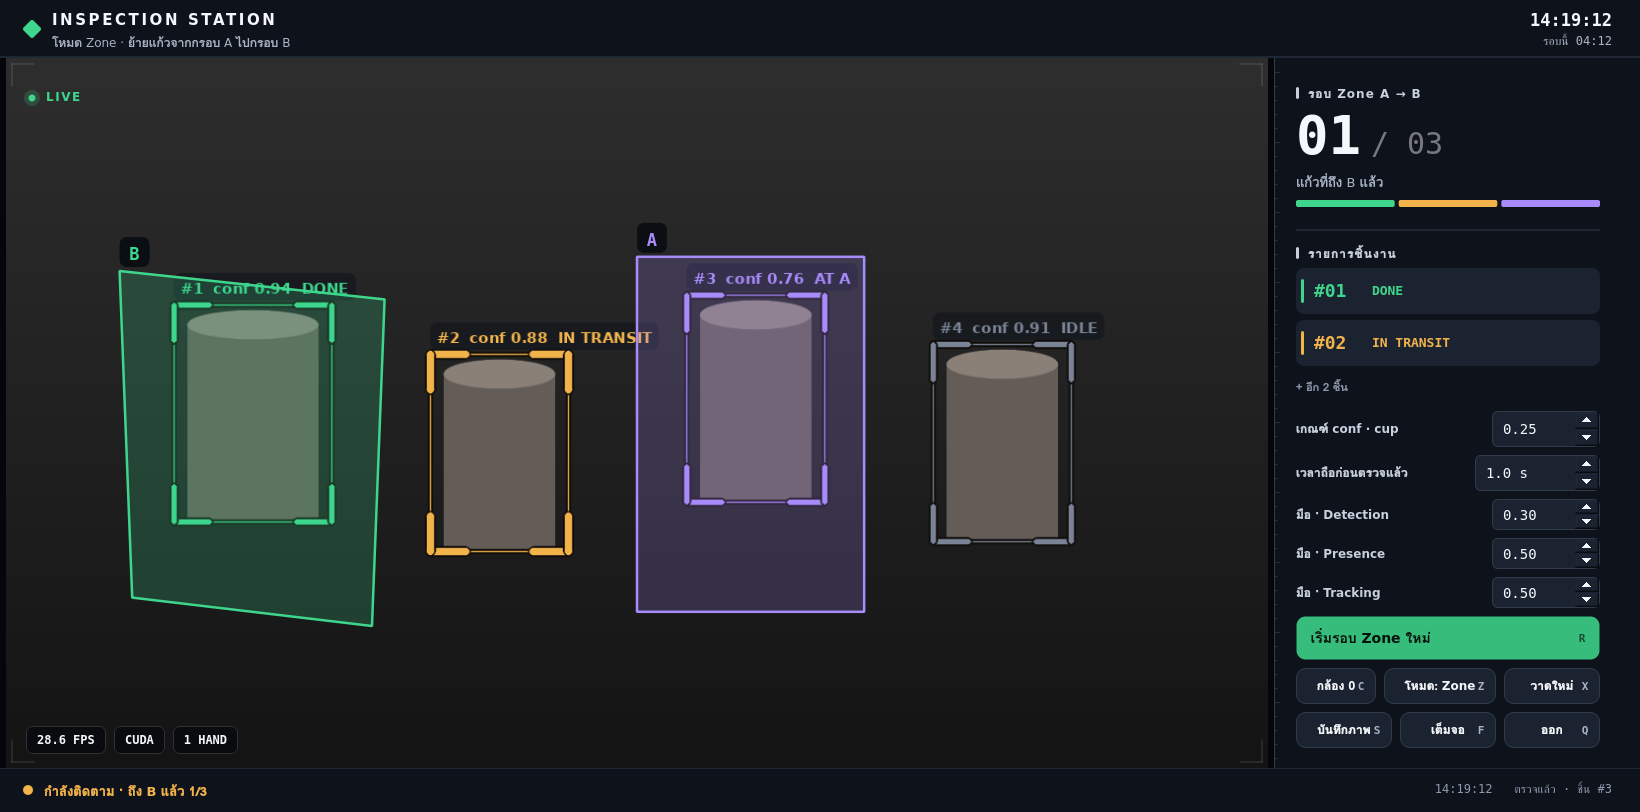
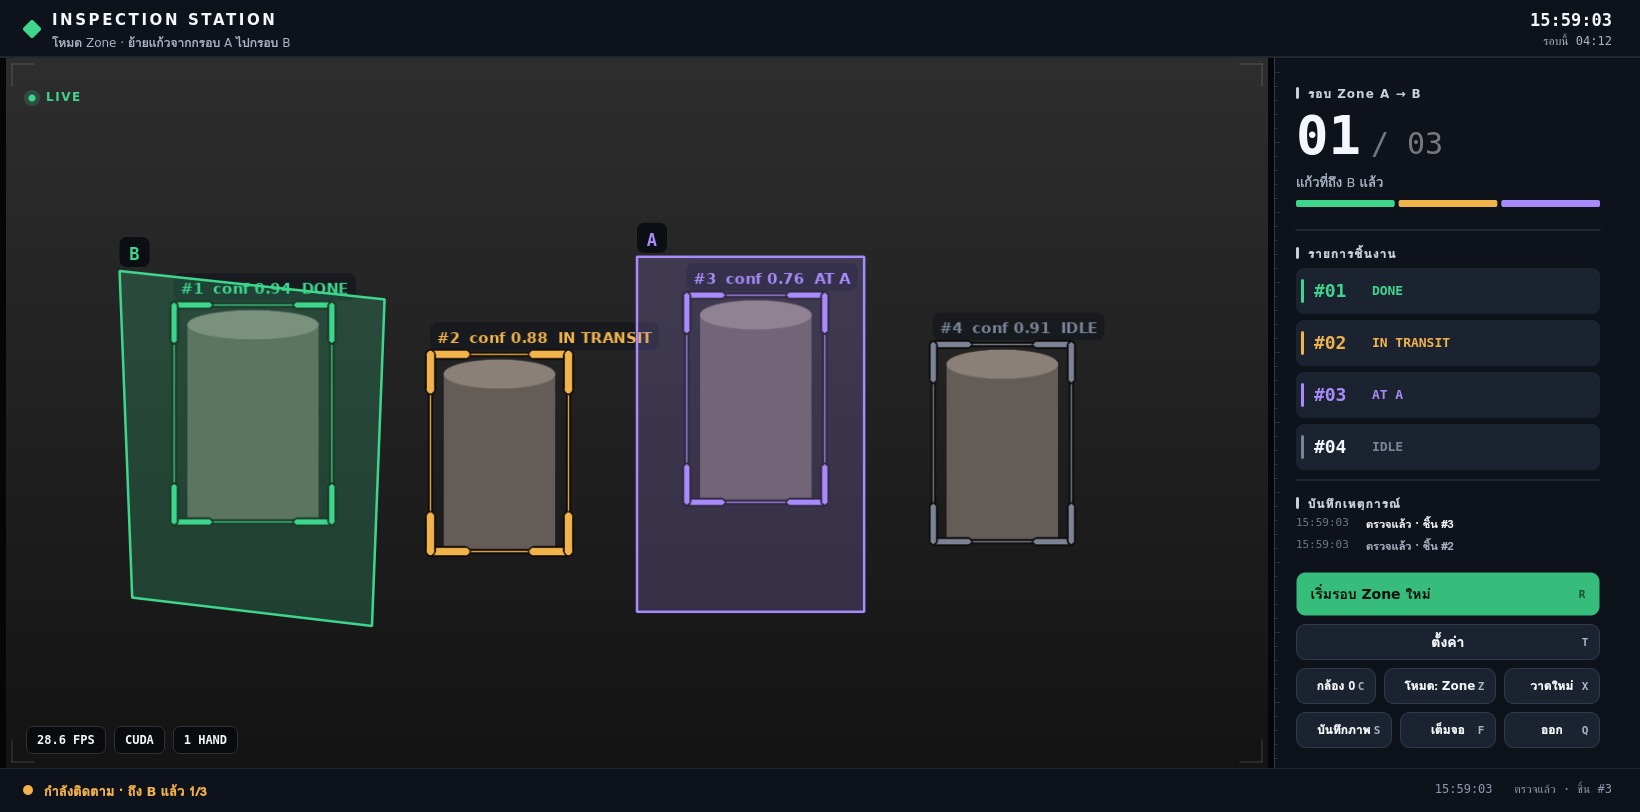
app: move the threshold controls into a settings window (T)
The cup confidence, hold time and three MediaPipe thresholds crowded the side
panel. They now live in a floating, non-blocking window opened by the
Settings button or the T key (Esc closes it). Same spin boxes and the same
setters, still not saved to config.yaml. The item list gets the room back:
Rack is 514 px high at the default window size (353 before).
ui_preview gains a 'settings' state; refresh the screenshots.

diff --git a/app/app.py b/app/app.py
@@ -24,7 +24,7 @@ try:
     from PySide6.QtCore import Qt, QPoint, QRectF, QTimer, QVariantAnimation, QPointF
     from PySide6.QtGui import (QColor, QFont, QFontMetrics, QImage, QPainter,
                                QPalette, QPen, QPixmap, QPolygonF)
-    from PySide6.QtWidgets import (QAbstractButton, QApplication, QDoubleSpinBox, QLabel, QHBoxLayout,
+    from PySide6.QtWidgets import (QAbstractButton, QApplication, QDialog, QDoubleSpinBox, QLabel, QHBoxLayout,
                                    QMenu, QScrollArea, QVBoxLayout, QWidget)
 except ImportError:
     raise SystemExit("\nไม่มี PySide6 — ติดตั้งก่อน:  pip install -r app/requirements.txt\n")
@@ -534,6 +534,19 @@ class Station(QWidget):
         keys = QVBoxLayout()
         keys.setContentsMargins(22, 0, 22, 20)
         keys.setSpacing(8)
+        # ค่า threshold ทั้งหมดอยู่ในหน้าต่างลอยแยก (ปุ่ม "ตั้งค่า" / คีย์ T) — แผงข้างจะได้ไม่รก
+        self.settings = QDialog(self)
+        self.settings.setWindowTitle("ตั้งค่า · threshold")
+        self.settings.setWindowFlag(Qt.WindowType.Tool)      # ลอยเหนือหน้าต่างหลัก ไม่ขึ้นแถบงาน · ไม่บล็อกหน้าหลัก
+        self.settings.setFixedWidth(380)
+        ground(self.settings, PANEL)
+        form = QVBoxLayout(self.settings)
+        form.setContentsMargins(22, 18, 22, 18)
+        form.setSpacing(10)
+        hint = QLabel("มีผลทันทีระหว่างรัน · ไม่บันทึกลง config.yaml")
+        hint.setFont(face(11))
+        hint.setStyleSheet(f"color: {FAINT}")
+        form.addWidget(hint)
         conf_row = QHBoxLayout()
         conf_label = QLabel("เกณฑ์ conf · cup")
         conf_label.setFont(face(12, QFont.Weight.DemiBold))
@@ -556,7 +569,7 @@ class Station(QWidget):
         conf_label.setBuddy(self.conf_input)
         conf_row.addWidget(conf_label, 1)
         conf_row.addWidget(self.conf_input)
-        keys.addLayout(conf_row)
+        form.addLayout(conf_row)
         duration_row = QHBoxLayout()
         duration_label = QLabel("เวลาถือก่อนตรวจแล้ว")
         duration_label.setFont(face(12, QFont.Weight.DemiBold))
@@ -577,7 +590,7 @@ class Station(QWidget):
         duration_label.setBuddy(self.duration_input)
         duration_row.addWidget(duration_label, 1)
         duration_row.addWidget(self.duration_input)
-        keys.addLayout(duration_row)
+        form.addLayout(duration_row)
         self.hand_conf_inputs = {}
         self.hand_conf_timer = QTimer(self)
         self.hand_conf_timer.setSingleShot(True)
@@ -607,9 +620,12 @@ class Station(QWidget):
             title.setBuddy(spin)
             row.addWidget(title, 1)
             row.addWidget(spin)
-            keys.addLayout(row)
+            form.addLayout(row)
             self.hand_conf_inputs[key] = spin
         keys.addWidget(self.new_round)
+        self.settings_btn = Button("ตั้งค่า", "T")
+        self.settings_btn.clicked.connect(self.toggle_settings)
+        keys.addWidget(self.settings_btn)
         cam_row = QHBoxLayout()                     # กล้อง · โหมด (· วาดใหม่ เฉพาะโหมด zone) อยู่แถวเดียว —
         cam_row.setSpacing(8)                       # แถวใหม่จะกิน 44px จากรายการชิ้นงาน (Rack) จนแถวหาย
         cam_row.addWidget(self.cam_btn, 5)
@@ -675,6 +691,16 @@ class Station(QWidget):
     def reset(self):
         self.an.reset()
         self.flash("เริ่มรอบ Zone ใหม่แล้ว" if self.mode == "zone" else "เริ่มรอบตรวจใหม่แล้ว")
+
+    def toggle_settings(self):
+        if self.settings.isVisible():
+            self.settings.hide()
+            return
+        self.settings.adjustSize()
+        # วางที่มุมขวาบนของพื้นที่ภาพ ติดแผงข้าง — ไม่บังเช็กลิสต์ และใกล้ปุ่มที่เพิ่งกด
+        corner = self.view.mapToGlobal(QPoint(self.view.width() - self.settings.width() - 12, 12))
+        self.settings.move(corner)
+        self.settings.show()
 
     # ── โหมด zone: สลับโหมด + วาดกรอบ A/B (จำเฉพาะ session นี้ ไม่บันทึกลงไฟล์) ──
     def toggle_mode(self):
@@ -786,6 +812,8 @@ class Station(QWidget):
                 self.view.pts = []
             else:
                 self.toggle_mode()
+        elif k == Qt.Key.Key_T:
+            self.toggle_settings()
         elif k == Qt.Key.Key_Z:
             self.toggle_mode()
         elif k == Qt.Key.Key_X and self.mode == "zone":

diff --git a/tools/ui_preview.py b/tools/ui_preview.py
@@ -6,6 +6,7 @@
     python tools/ui_preview.py                    # ฉากปกติ -> docs/app-ui.png
     python tools/ui_preview.py empty out.png      # สถานะอื่น: empty · done · many · lost
     python tools/ui_preview.py zone out.png       # โหมด zone A → B (ครบสี่สถานะ) · draw = กำลังวาดกรอบ B
+    python tools/ui_preview.py settings out.png   # หน้าต่างตั้งค่า (threshold) เปิดอยู่เหนือภาพ
 """
 import sys
 import time
@@ -86,6 +87,7 @@ STATES = {
     "lost":  lambda r: (r, False),
     "zone":  lambda r: ([(1, "done"), (2, "transit"), (3, "at_a"), (4, "idle")], True),
     "draw":  lambda r: ([(t, "idle") for t, _, _, _ in r], True),
+    "settings": lambda r: (r, True),
 }
 ZONE_STATES = {1: "done", 2: "transit", 3: "at_a", 4: "idle"}
 ZONE_A = [(0.50, 0.28), (0.68, 0.28), (0.68, 0.78), (0.50, 0.78)]      # ล้อมแก้วใบที่ 3
@@ -157,7 +159,15 @@ def main():
     qt.processEvents()
     win.tick()
     qt.processEvents()
-    win.grab().save(str(out))
+    shot = win.grab()
+    if state == "settings":                              # หน้าต่างตั้งค่าเป็นหน้าต่างแยก — grab แล้ววางทับตำแหน่งจริง
+        win.toggle_settings()
+        qt.processEvents()
+        dlg = win.settings
+        painter = ui.QPainter(shot)
+        painter.drawPixmap(dlg.mapTo(win, dlg.rect().topLeft()) if False else win.mapFromGlobal(dlg.pos()), dlg.grab())
+        painter.end()
+    shot.save(str(out))
     print("wrote", out)
 
 
